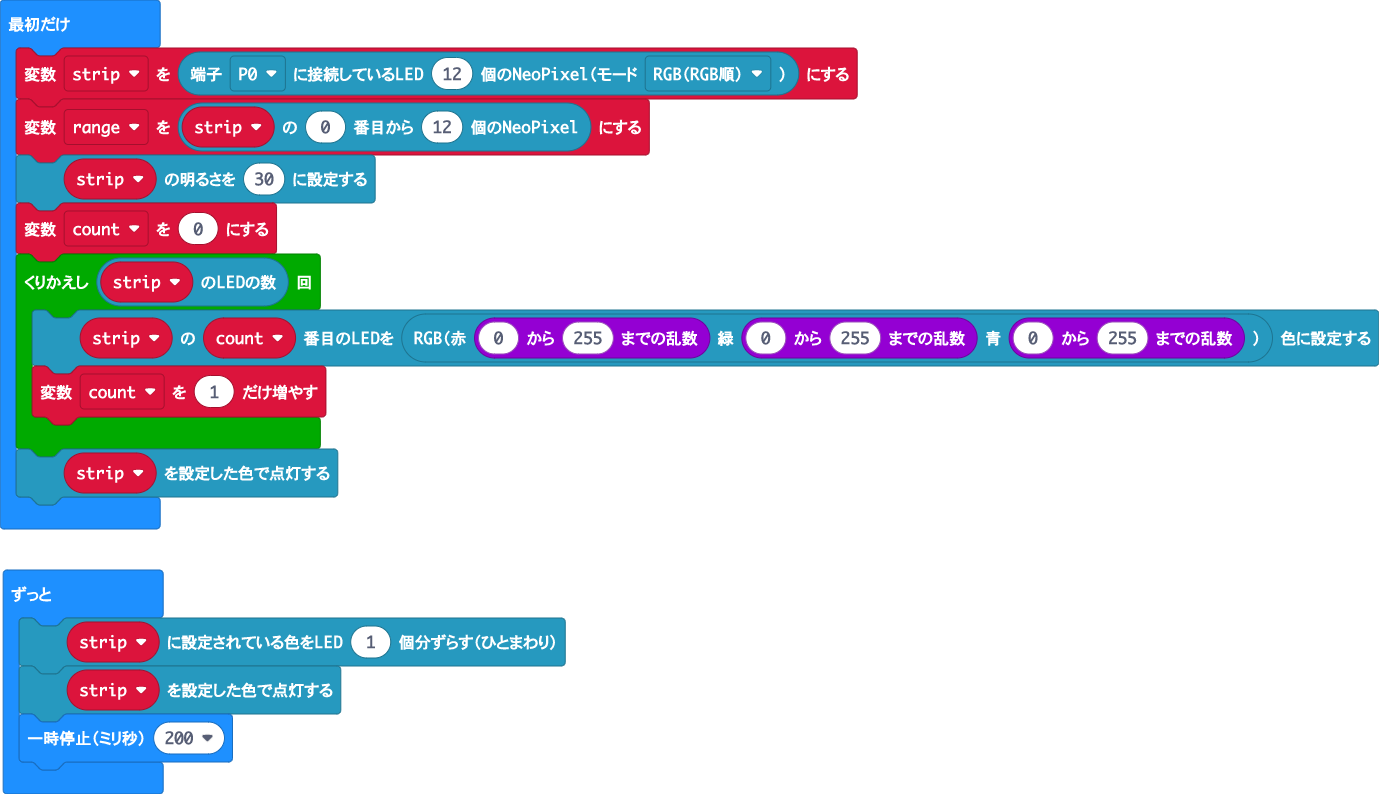
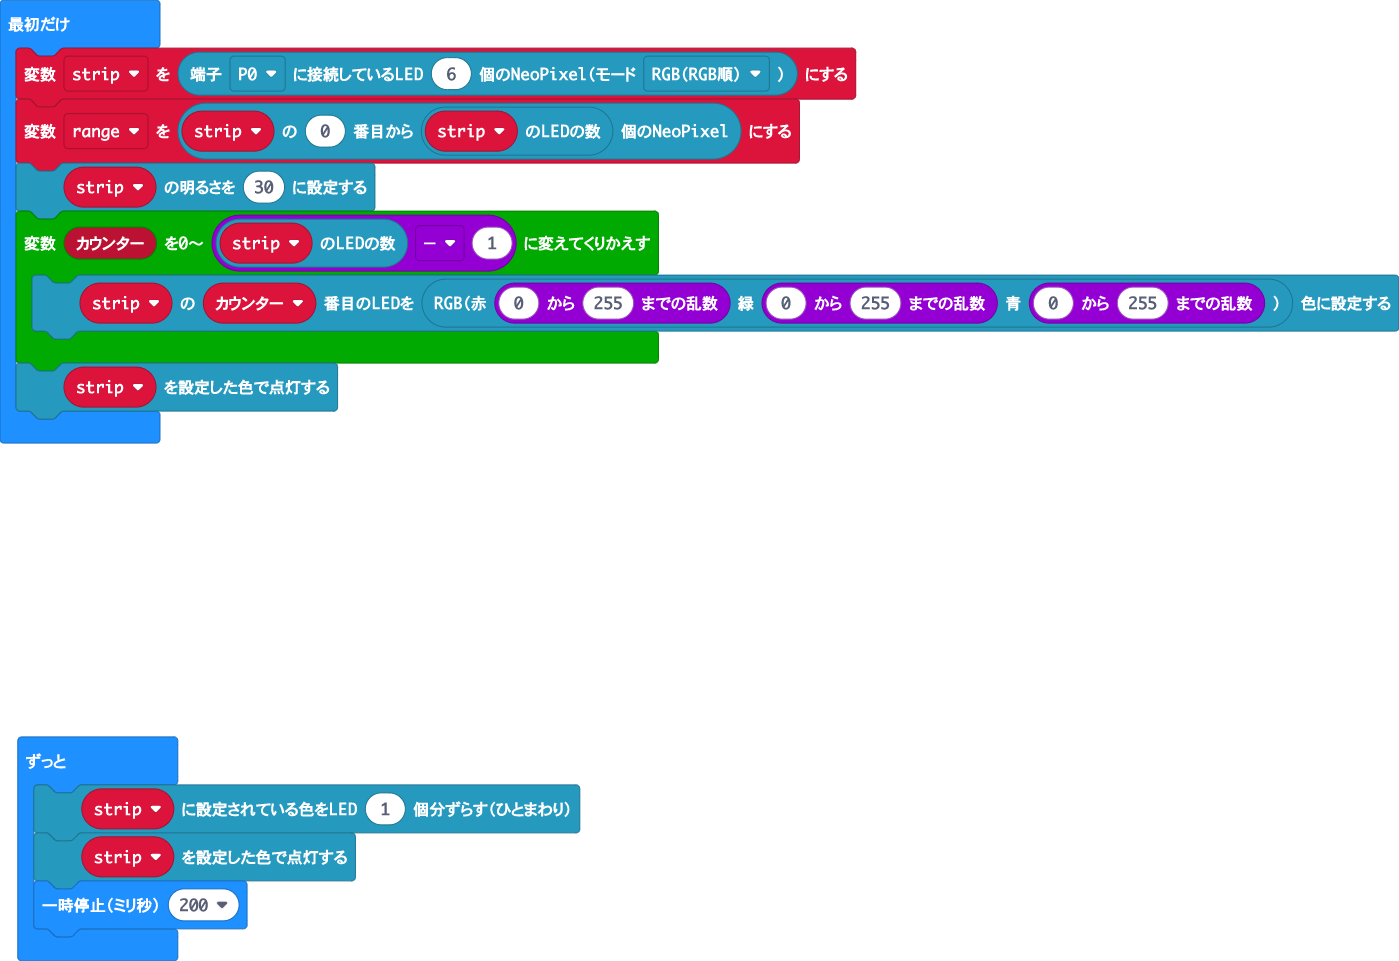
変数を整理

diff --git a/main.ts b/main.ts
@@ -1,10 +1,8 @@
-let strip = neopixel.create(DigitalPin.P0, 12, NeoPixelMode.RGB_RGB)
-let range = strip.range(0, 12)
+let strip = neopixel.create(DigitalPin.P0, 6, NeoPixelMode.RGB_RGB)
+let range = strip.range(0, strip.length())
 strip.setBrightness(30)
-let count = 0
-for (let index = 0; index < strip.length(); index++) {
-    strip.setPixelColor(count, neopixel.rgb(randint(0, 255), randint(0, 255), randint(0, 255)))
-    count += 1
+for (let カウンター = 0; カウンター <= strip.length() - 1; カウンター++) {
+    strip.setPixelColor(カウンター, neopixel.rgb(randint(0, 255), randint(0, 255), randint(0, 255)))
 }
 strip.show()
 basic.forever(function () {
